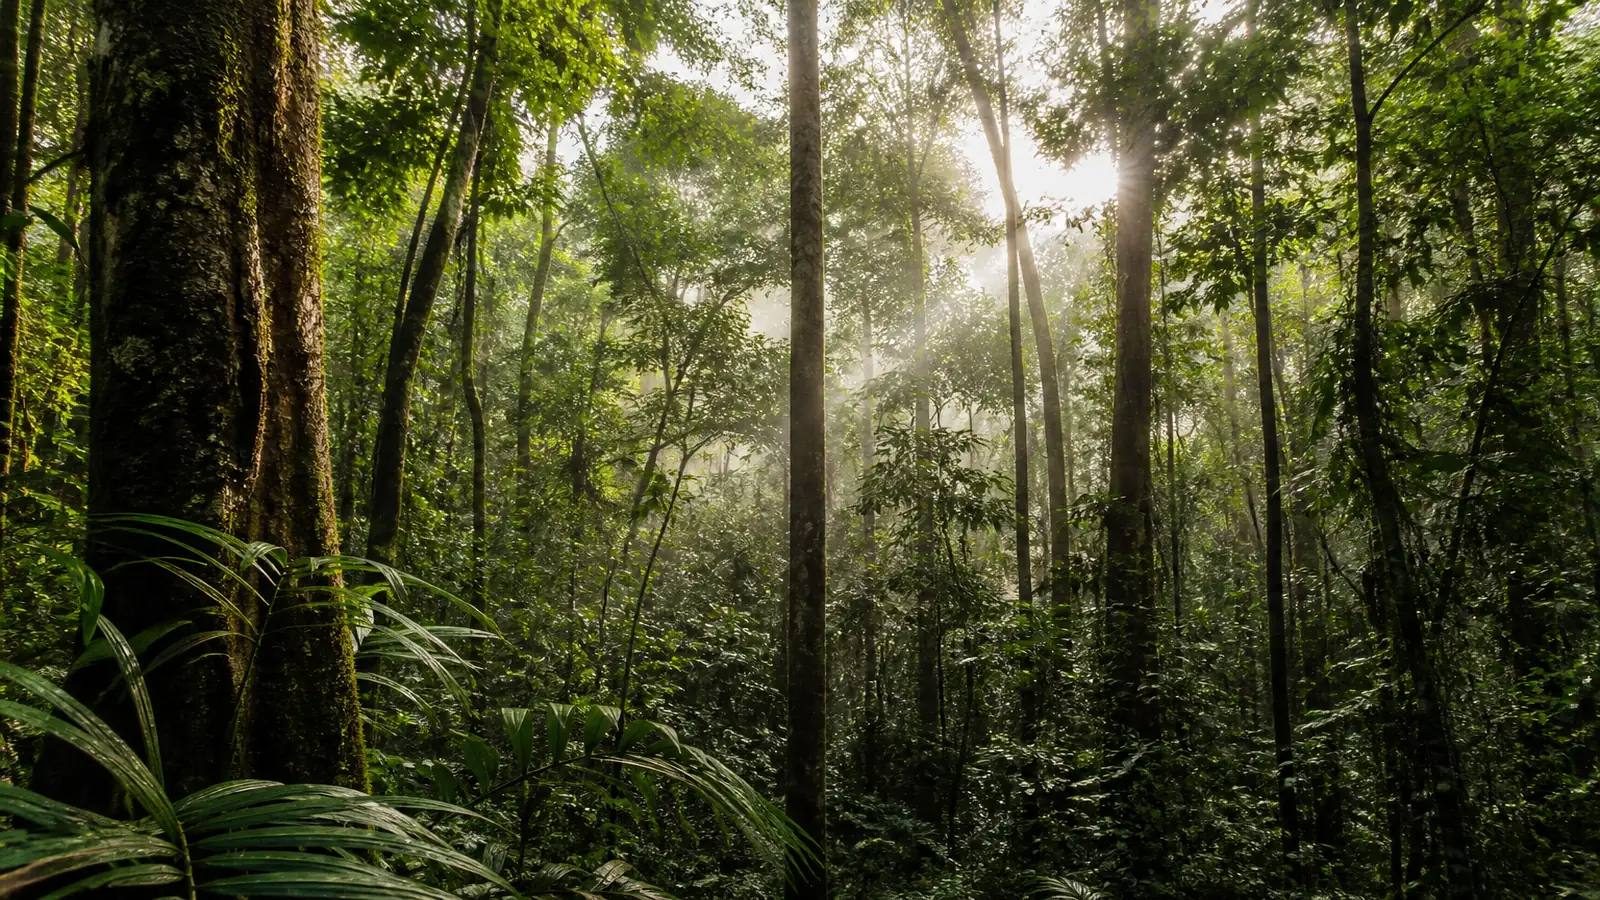
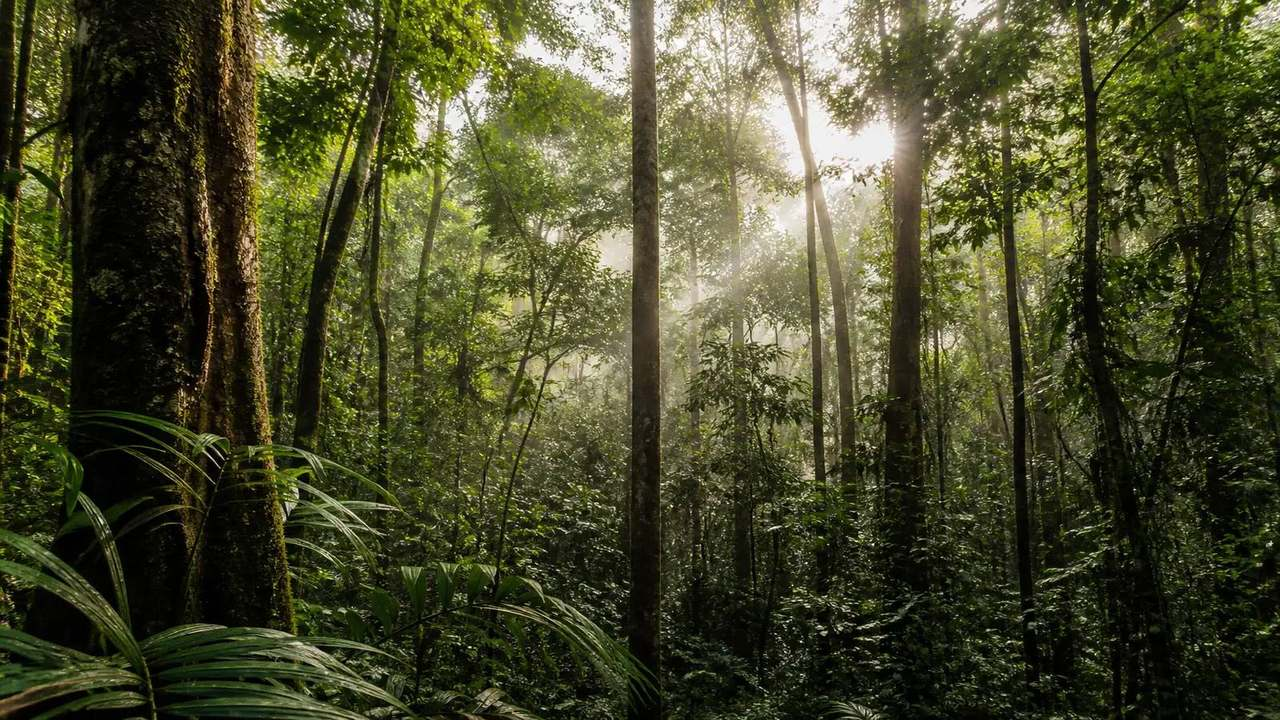
Fix production login forest assets and clearer auth DB errors.
Serve public from the standalone working directory, verify forest JPG in the image build, and surface database configuration failures on login.

diff --git a/src/pages/index.tsx b/src/pages/index.tsx
@@ -125,7 +125,9 @@ const IndexPage: React.FC = () => {
       } else if (error.response?.status === 429) {
         errorMessage = 'Trop de tentatives de connexion. Veuillez patienter.';
       } else if (error.response?.status >= 500) {
-        errorMessage = 'Erreur du serveur. Veuillez réessayer plus tard.';
+        errorMessage =
+          error.response?.data?.message ||
+          'Erreur du serveur. Veuillez réessayer plus tard.';
       } else if (!navigator.onLine) {
         errorMessage = 'Aucune connexion internet. Vérifiez votre connexion.';
       }
@@ -284,14 +286,20 @@ const IndexPage: React.FC = () => {
 
   return (
     <div className="relative min-h-screen flex items-center justify-center px-4 sm:px-6 lg:px-8 overflow-hidden">
-      {/* Fond forêt en CSS (JPEG servi depuis /public — robuste en Docker standalone) */}
+      {/* Fond : photo forêt + filet CSS (si le JPG 404, l’ambiance reste lisible) */}
       <div
         aria-hidden
-        className="absolute inset-0 -z-10 bg-[#0f2918]"
+        className="absolute inset-0 -z-10"
         style={{
-          backgroundImage:
-            "linear-gradient(to bottom, rgba(0,0,0,.55), rgba(6,46,28,.42), rgba(0,0,0,.72)), url('/login-forest.jpg')",
-          backgroundSize: 'cover',
+          backgroundColor: '#0c1f14',
+          backgroundImage: [
+            'linear-gradient(to bottom, rgba(0,0,0,.50), rgba(8,40,24,.35), rgba(0,0,0,.70))',
+            "url('/login-forest.jpg')",
+            'radial-gradient(ellipse at 20% 0%, rgba(34,197,94,.18), transparent 55%)',
+            'radial-gradient(ellipse at 80% 100%, rgba(6,78,59,.45), transparent 50%)',
+            'linear-gradient(160deg, #0c1f14 0%, #14532d 45%, #052e16 100%)',
+          ].join(', '),
+          backgroundSize: 'cover, cover, cover, cover, cover',
           backgroundPosition: 'center',
           backgroundRepeat: 'no-repeat',
         }}

diff --git a/src/pages/api/auth/login.ts b/src/pages/api/auth/login.ts
@@ -122,7 +122,9 @@ export default async function handler(
     return res.status(500).json({
       success: false,
       message:
-        "Une erreur technique s'est produite. Veuillez contacter l'administrateur.",
+        error instanceof Error && error.message
+          ? error.message
+          : "Une erreur technique s'est produite. Veuillez contacter l'administrateur.",
     });
   }
 }

diff --git a/src/lib/auth.ts b/src/lib/auth.ts
@@ -160,6 +160,11 @@ export async function authenticateUser(
   username: string,
   password: string
 ): Promise<UserProfile | null> {
+  if (!prisma) {
+    throw new Error(
+      'Base de données non configurée (DATABASE_URL manquant dans le conteneur).'
+    );
+  }
   const user = await prisma.utilisateurs.findFirst({
     where: { username },
     include: prismaUserAccessInclude,
